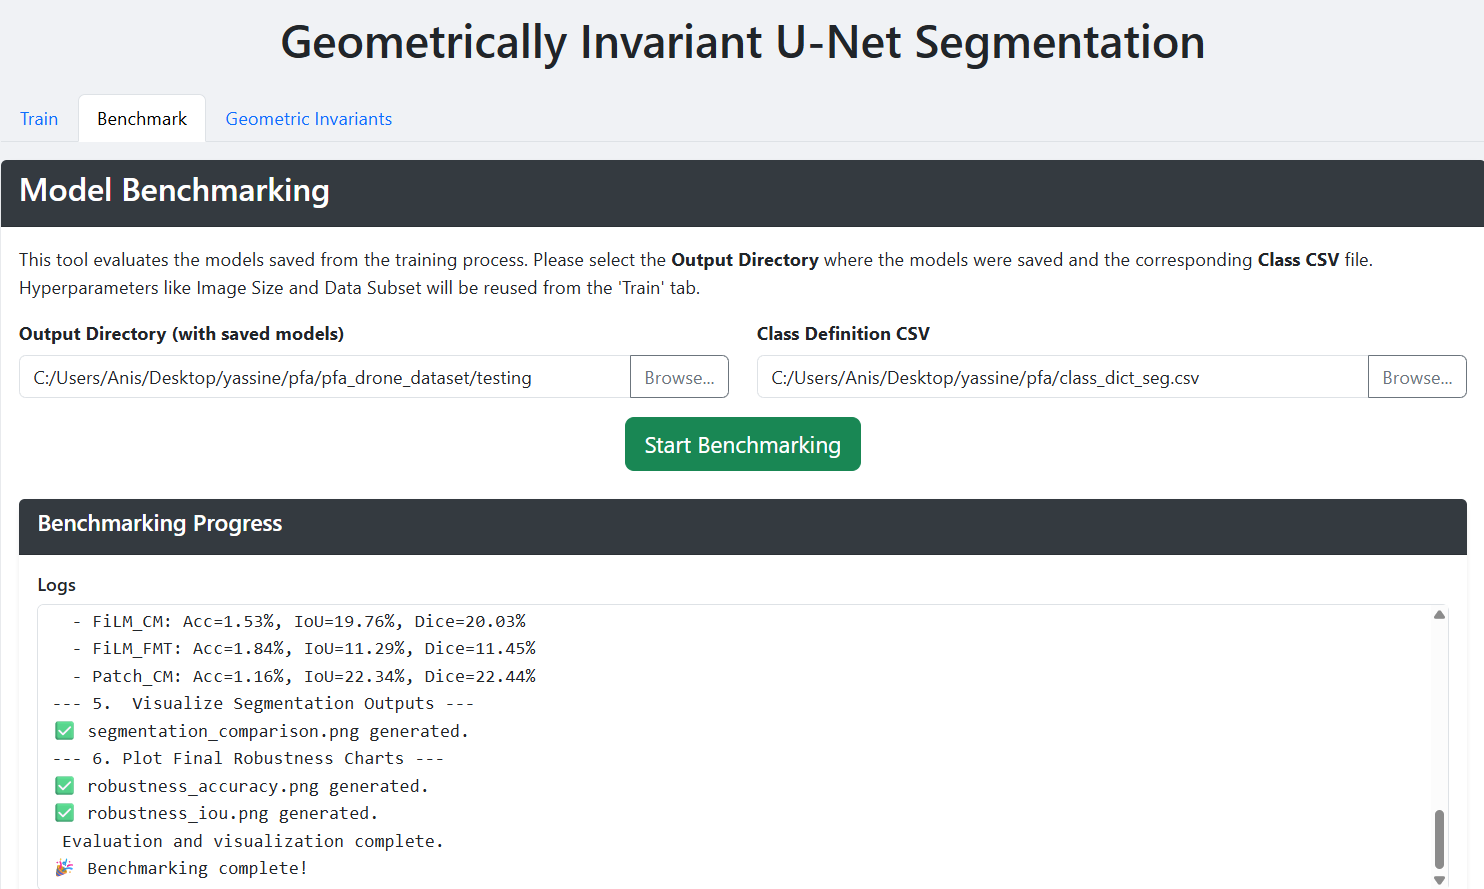
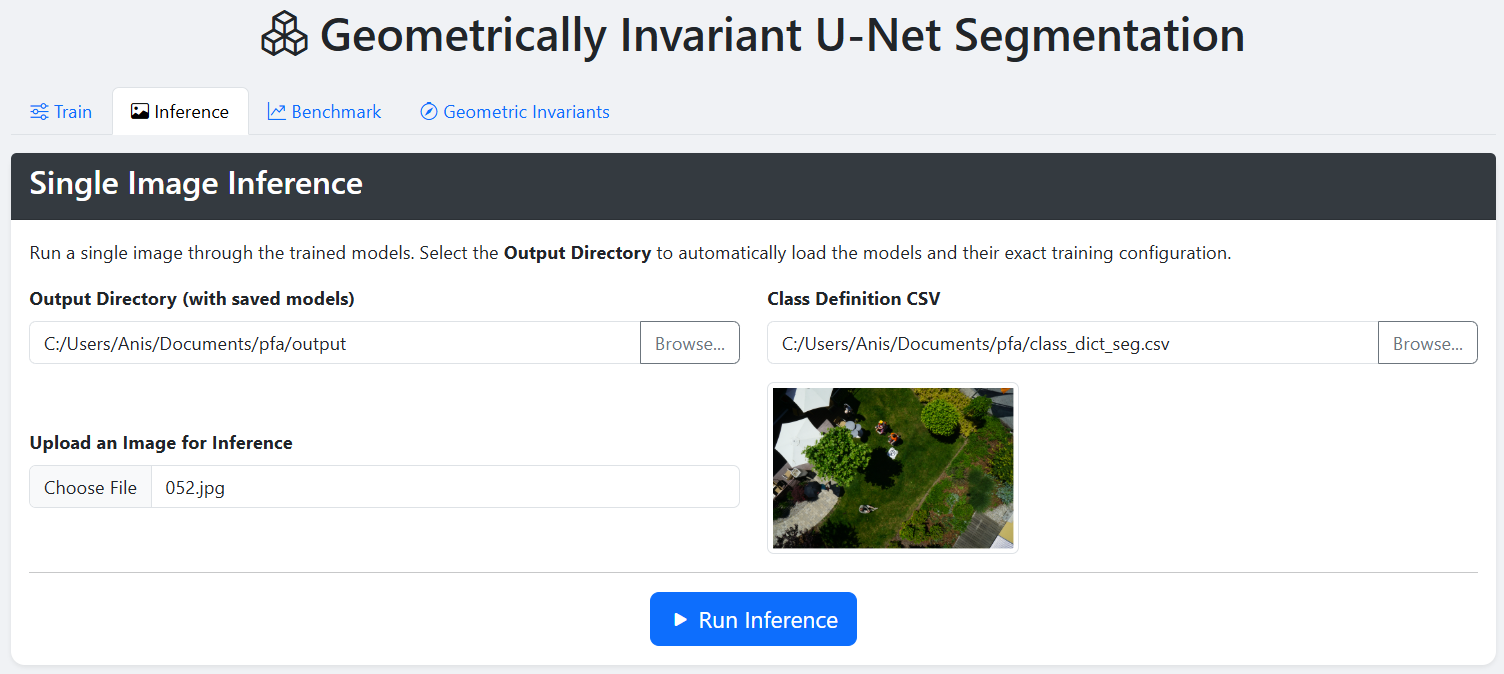
.

diff --git a/README.md b/README.md
@@ -156,6 +156,21 @@ http://127.0.0.1:5000
 
 ---
 
+### Step 4: The "Inference" Tab
+
+- **Select Output Directory:** Choose the folder containing your trained models and configuration (`training_config.json`).
+- **Upload Image:** Supported formats: `.jpg`, `.png`
+- **Run Inference:** The selected image is processed by all available models (U-Net variants). Progress and logs are displayed in real time.
+- **View Results:**
+  - **Original Image:** Preview of the uploaded image.
+  - **Geometric Invariants:** Plots of Complex Moments and Fourier-Mellin descriptors for the image.
+  - **Segmentation Results:** Predicted masks from each model, visualized with color maps from your class CSV.
+  - **Download Outputs:** Segmentation masks are saved in `/static/outputs/` for further analysis.
+
+![inference](assets/inference.png)
+
+---
+
 ## File and Folder Structure for Your Data
 
 ### Input Images
